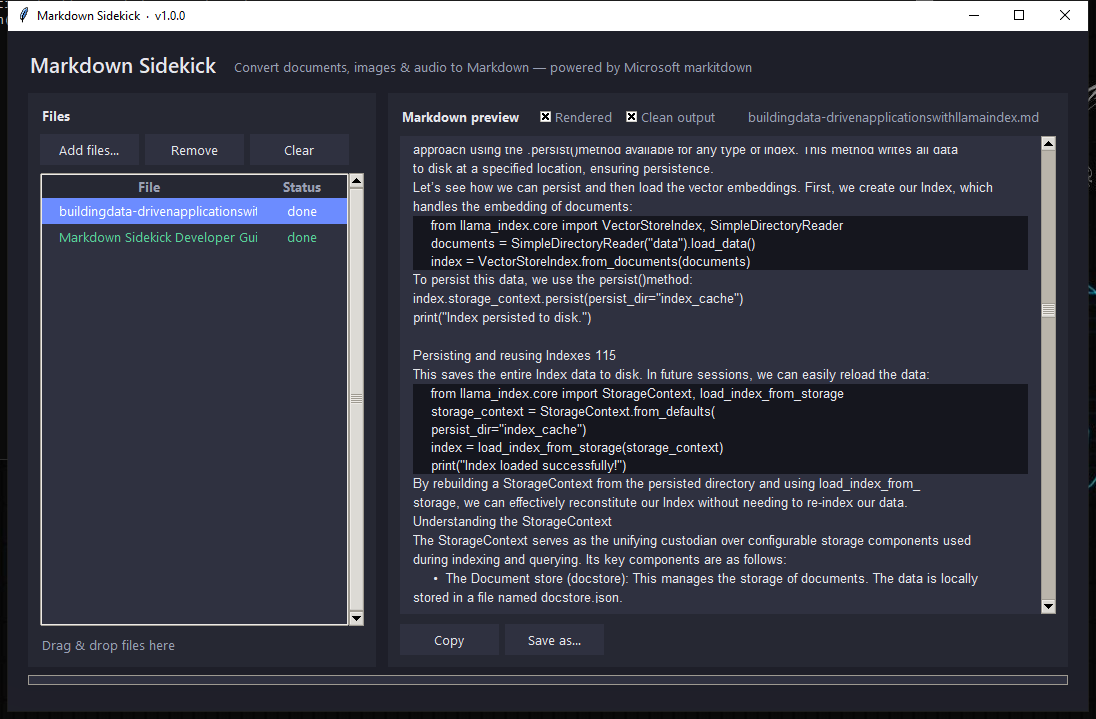
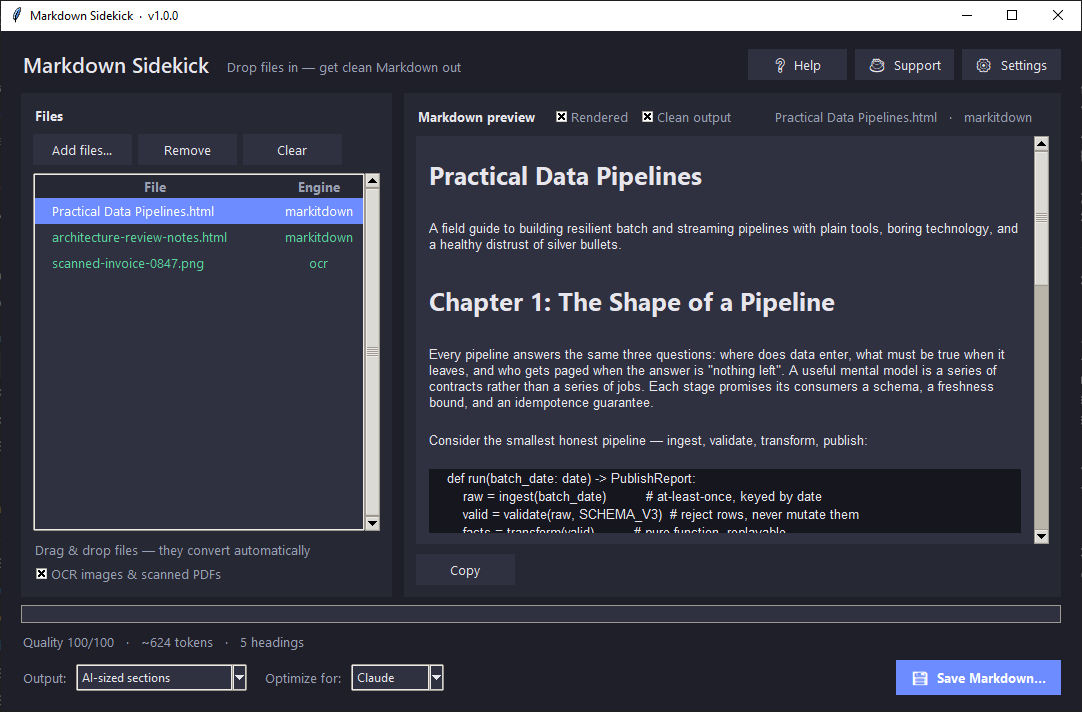
Add MIT LICENSE and refresh README screenshot (roadmap N1)
- LICENSE: MIT, matching the license declared in pyproject.toml —
  the published repo previously shipped no license text at all.
- README: License section noting the no-GPL/AGPL dependency policy.
- docs/screenshot.png: retaken against the current UI — export bar
  (AI-sized sections + Optimize-for picker), engine badges
  (markitdown/ocr), rendered preview with fenced code, quality line.
  Old shot showed the pre-redesign UI (Save as…, Status column).

diff --git a/README.md b/README.md
@@ -276,3 +276,8 @@ just as valuable.
 
 Markdown Sidekick is the desktop front-end around these engines — a
 **VibeProSoft** freeware project.
+
+## License
+
+MIT — see [LICENSE](LICENSE). The bundled conversion engines keep their own
+licenses (all permissive; the project deliberately avoids GPL/AGPL dependencies).
